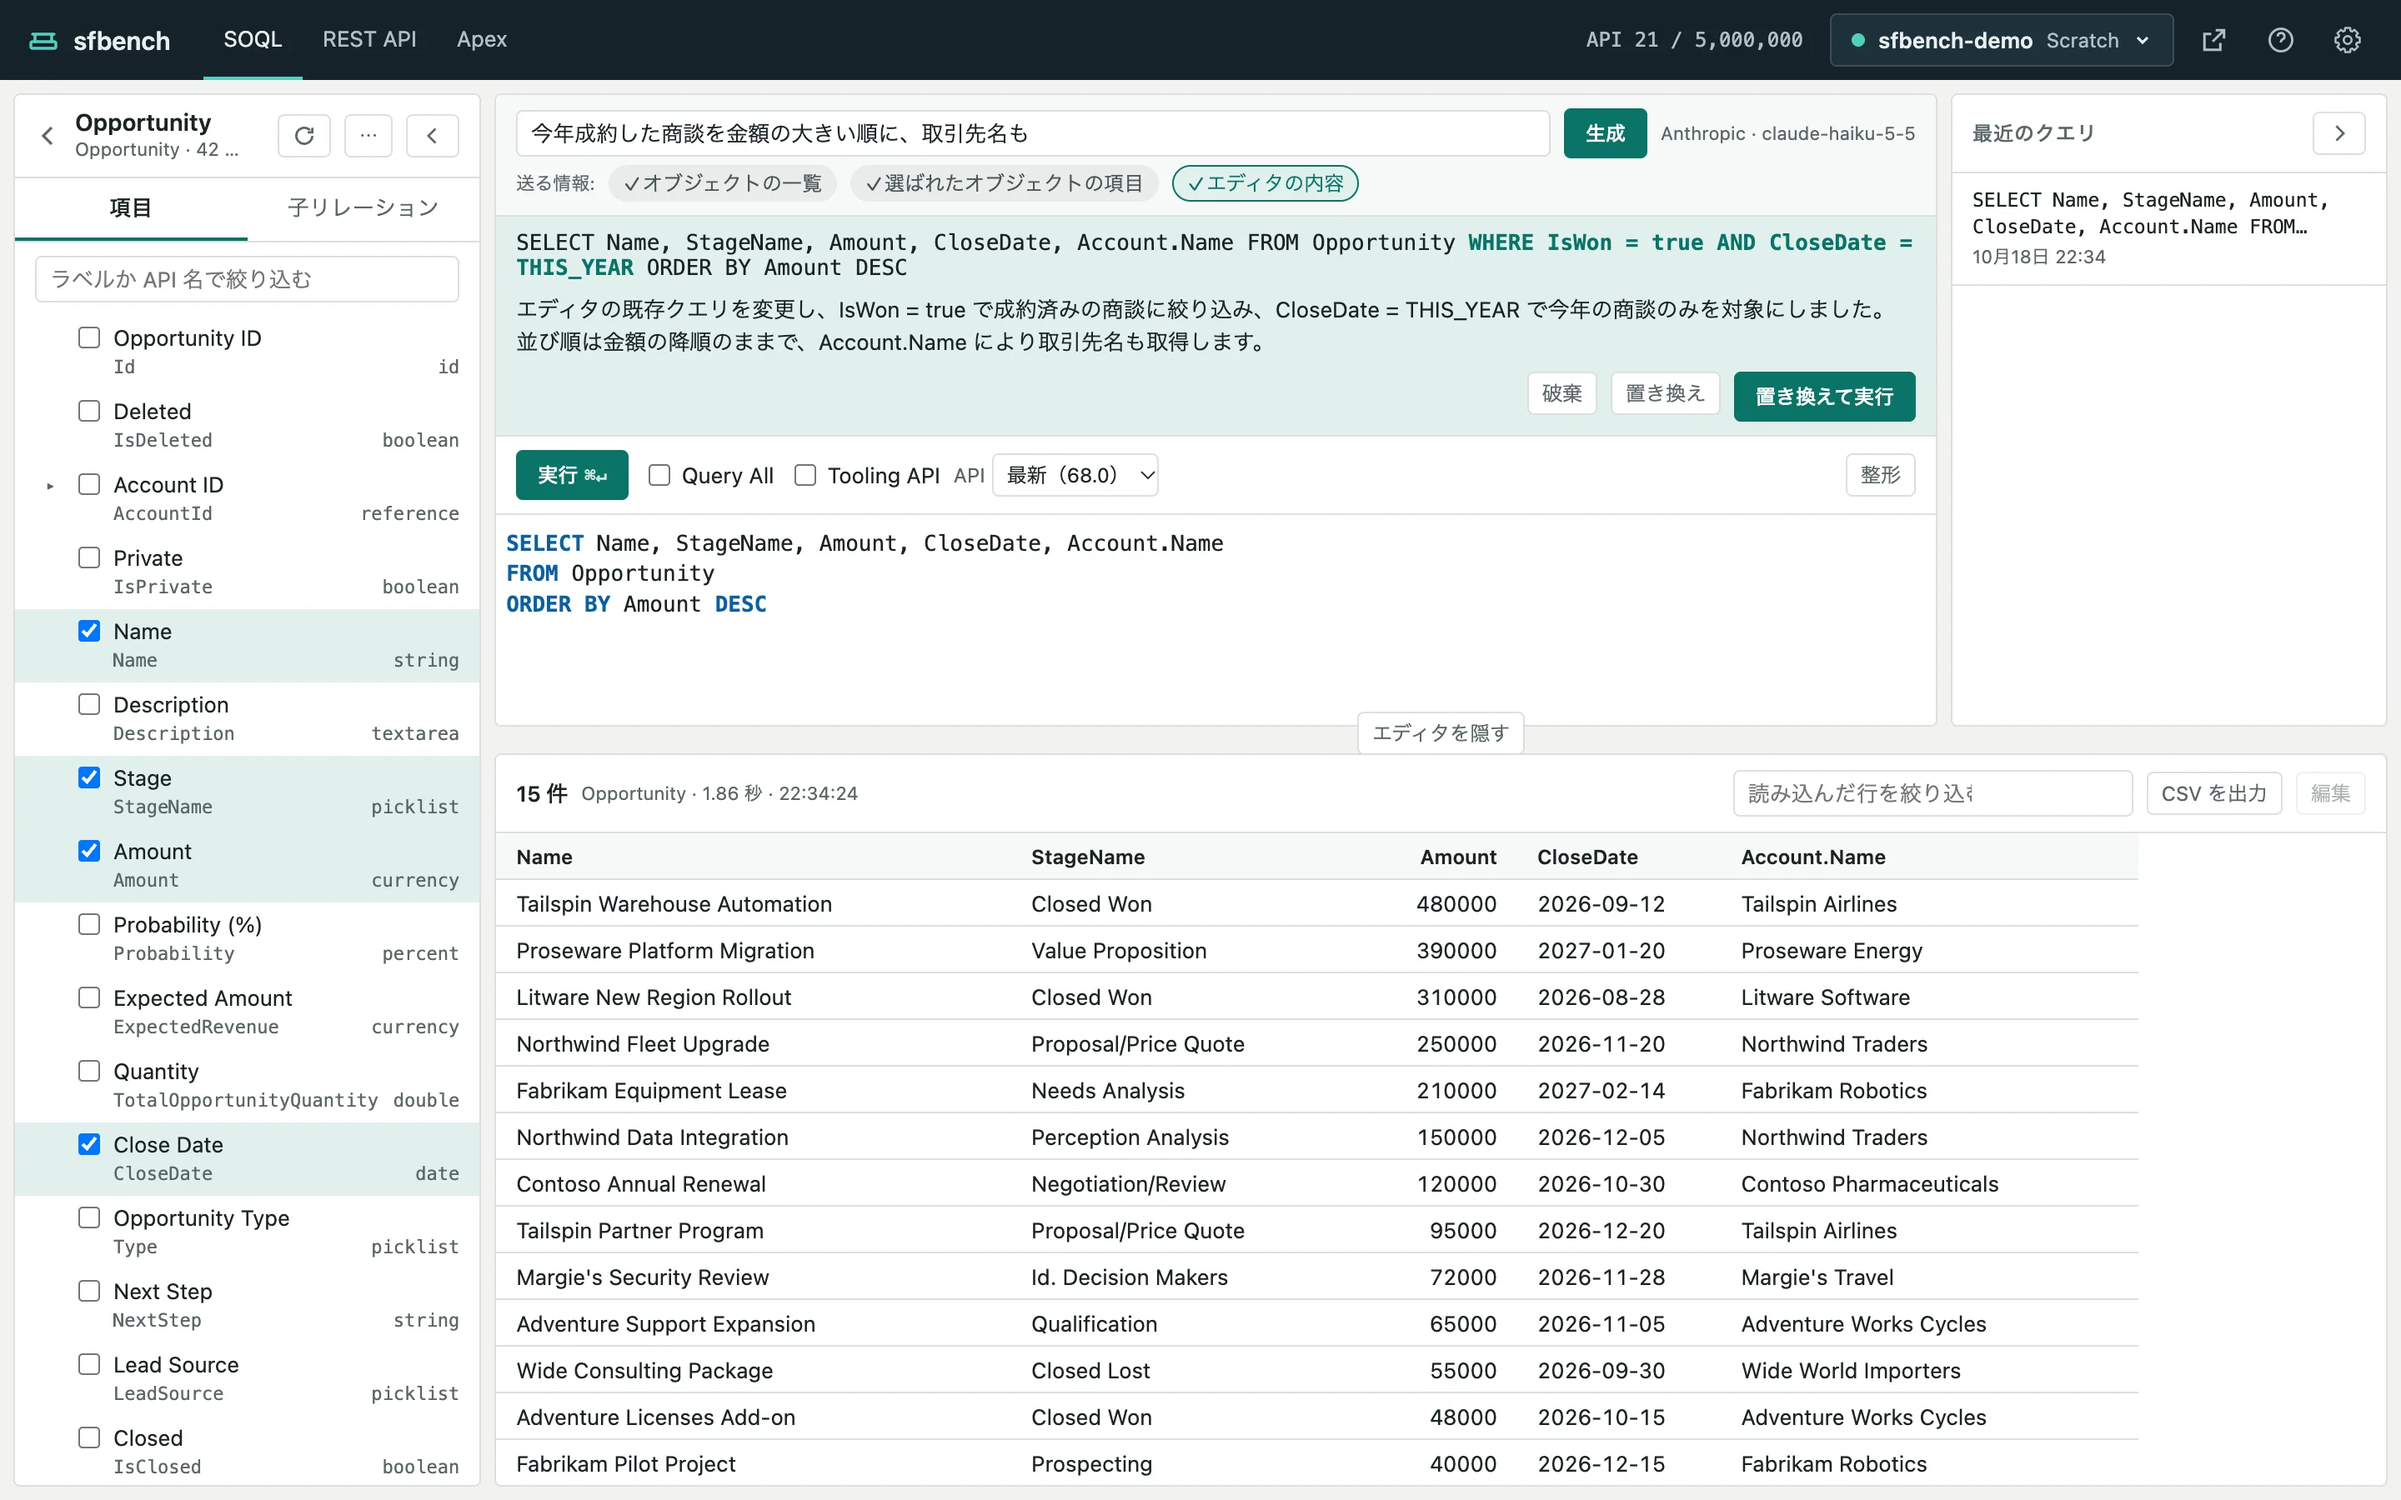
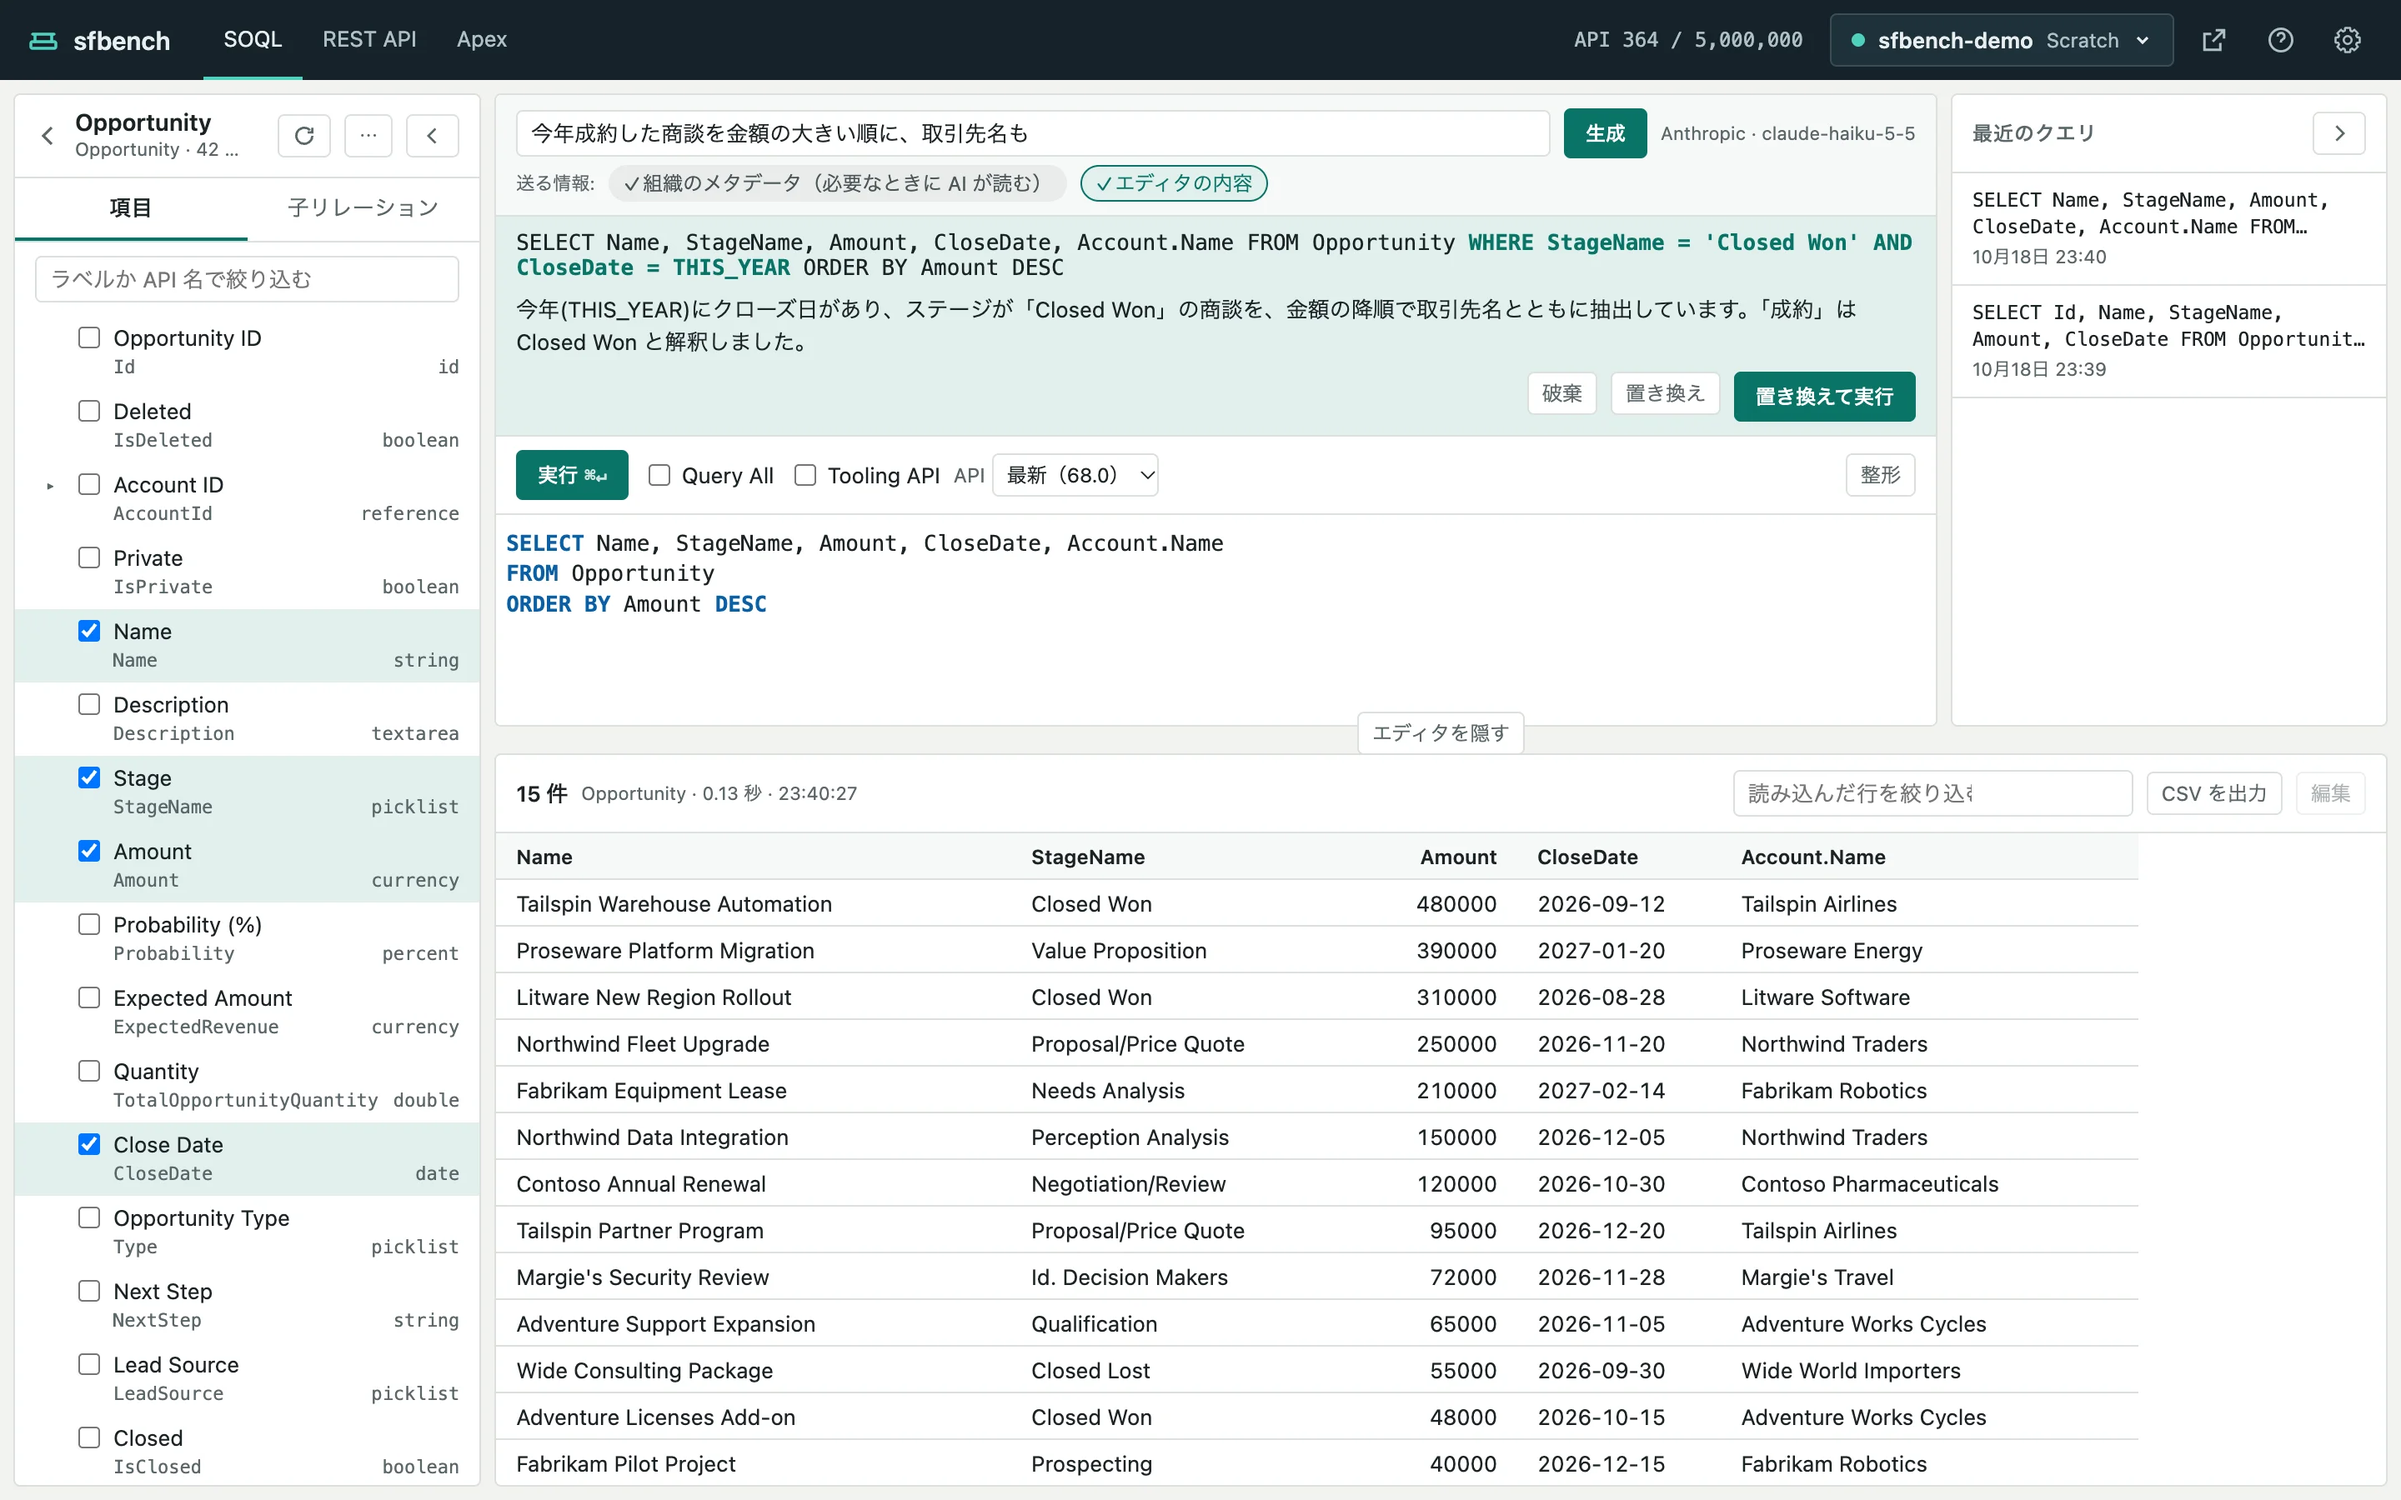
SOQL の AI の文書、ヘルプ、スクリーンショットを、ツールの仕組みに合わせて直す

diff --git a/docs/design.md b/docs/design.md
@@ -196,7 +196,7 @@ Salesforce の呼び出しも AI の API の呼び出しも、これでプロキ
 | `GET /api/orgs/:user/sobjects/:name` | 画面用 | describe。`version=` で API バージョンを選べる |
 | `POST /api/orgs/:user/query` | 画面用 | SOQL の実行（`{ soql, tooling, queryAll, apiVersion?, prompt? }`） |
 | `POST /api/orgs/:user/query/next` | 画面用 | 続きのページ（`{ nextRecordsUrl }`） |
-| `POST /api/orgs/:user/ai/agent` | 画面用 | REST API と Apex の AI。ツールで組織のメタデータを読ませて組む（[ai-agent.md](ai-agent.md)） |
+| `POST /api/orgs/:user/ai/agent` | 画面用 | SOQL、REST API、Apex の AI。ツールで組織のメタデータを読ませて組む（[ai-agent.md](ai-agent.md)） |
 | `POST /api/orgs/:user/rest` | 画面用 | REST API の実行（`{ method, path, headers, body }`）。Salesforce が返したステータスによらず、200 で `{ id, status, headers, body, size, elapsedMs }` を返す（[rest.md](rest.md)） |
 | `GET /api/orgs/:user/rest/history` | 画面用 | REST API の実行履歴 |
 | `POST /api/orgs/:user/records/update` | 画面用 | 結果の表の保存（`{ object, records, allOrNone, apiVersion? }`、200件まで）。1件ずつの成否を返す（[edit.md](edit.md)） |
@@ -206,7 +206,6 @@ Salesforce の呼び出しも AI の API の呼び出しも、これでプロキ
 | `POST /api/orgs/:user/open` | 画面用 | 組織のホームを、ログイン済みの状態でブラウザに開く |
 | `GET /api/orgs/:user/history` | 画面用 | 最近のクエリ |
 | `GET /api/settings`、`PUT /api/settings` | 画面用 | 設定 |
-| `POST /api/ai/generate` | 画面用 | AI に生成させる |
 | `POST /api/ai/test` | 画面用 | AI の接続を試す |
 
 `:user` には組織のユーザー名が入る。
@@ -473,7 +472,7 @@ Windows ではこの権限の指定が効かないので、ユーザーのプロ
 
 - 既定は無効である。設定画面で選ぶまで、AI を一切呼ばない。
 - 未設定のときは、AI の入力欄の位置に設定への案内を出す。設定画面で Off を選んだ場合は、AI に関する表示をすべて隠す。
-- AI は API で呼ぶ。対応する提供元は Anthropic と OpenAI の2つである。Anthropic は Messages API で、OpenAI は SOQL の AI を Chat Completions API で、ツールを使う REST API と Apex の AI を Responses API で呼ぶ。どれもサーバーが `fetch` で呼ぶ。OpenAI 互換の API（Gemini、OpenRouter、手元で動かすモデルなど）には対応しない（理由は [ai.md](ai.md)）。
+- AI は API で呼ぶ。対応する提供元は Anthropic と OpenAI の2つである。Anthropic は Messages API で、OpenAI は Responses API で呼び、どの画面の AI にもツールを呼ばせる（[ai-agent.md](ai-agent.md)）。どれもサーバーが `fetch` で呼ぶ。OpenAI 互換の API（Gemini、OpenRouter、手元で動かすモデルなど）には対応しない（理由は [ai.md](ai.md)）。
 - モデル ID と API キーを、設定画面で入れる。モデル ID は sfbench に埋め込まない。モデルが廃止されたときに、利用者が書き換えるだけで済むようにするためである。
 - API キーは `~/.sfbench/settings.json` に保存し、画面には返さない。
 - AI を呼ぶのは、利用者が「生成」か「AI で直す」を押したときだけである。

diff --git a/help/en/ai.md b/help/en/ai.md
@@ -77,7 +77,7 @@ Pills with a ✓ are sent.
 
 | Screen | Always sent | Pills you can turn off or on |
 | --- | --- | --- |
-| SOQL | Object list, fields of the chosen objects | Editor text |
+| SOQL | The org's metadata (read by the AI as it needs) | Editor text |
 | REST API | The org's metadata (read by the AI as it needs) | The request now, the last result |
 | Apex | The org's metadata (read by the AI as it needs) | The code now, the last result |
 
